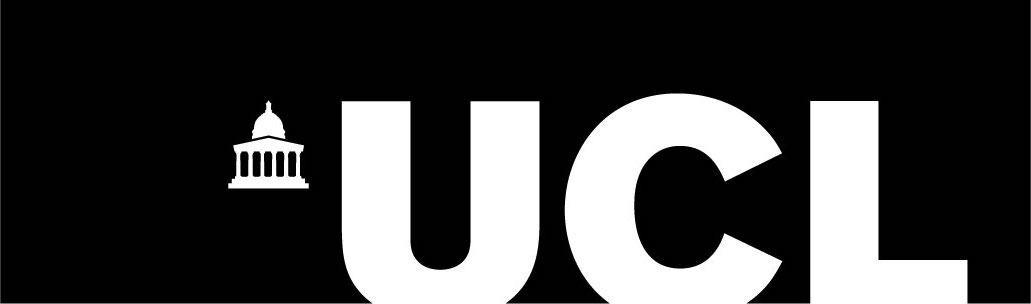
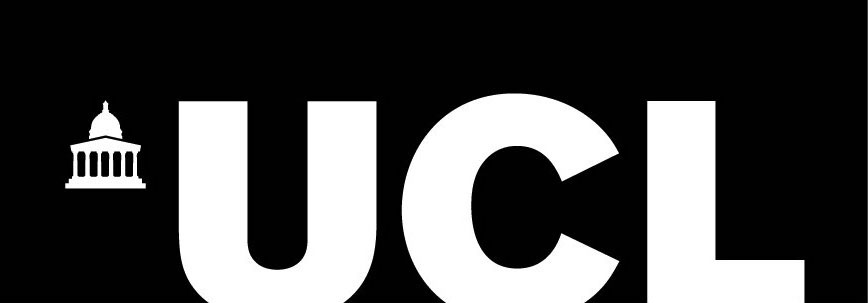
add README

Changed region(s): [[0.0, 0.297, 1.0, 1.0]]

diff --git a/main.tex b/main.tex
@@ -49,5 +49,5 @@
 %Annexes of report
     \input{Sections/board_meeting_minutes}
     \input{Sections/the_group}
-
+    \todo[inline]{Ask MF: would we usually put data sheets for components (motors \emph{etc.}) in the appendix?}
 \end{document}

diff --git a/README.md b/README.md
@@ -1,0 +1,8 @@
+![UCL logo](Files/UCL.jpg)
+
+# Sand∙E project report
+
+This is the project report for the Sand∙E project.
+This repo is managed by Sam Searles-Bryant (zcqssjs@ucl.ac.uk).
+
+The Sand∙E Group is group 5 on module PHAS3441 (2016) at University College London.
